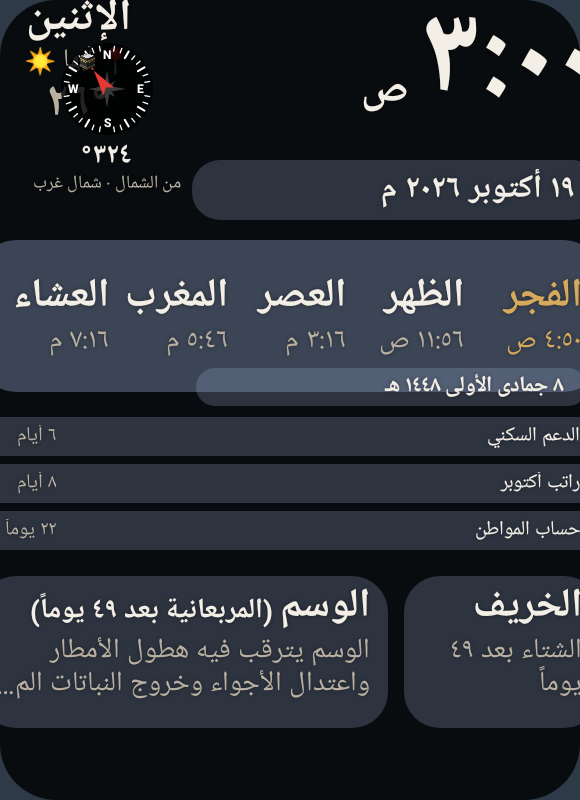
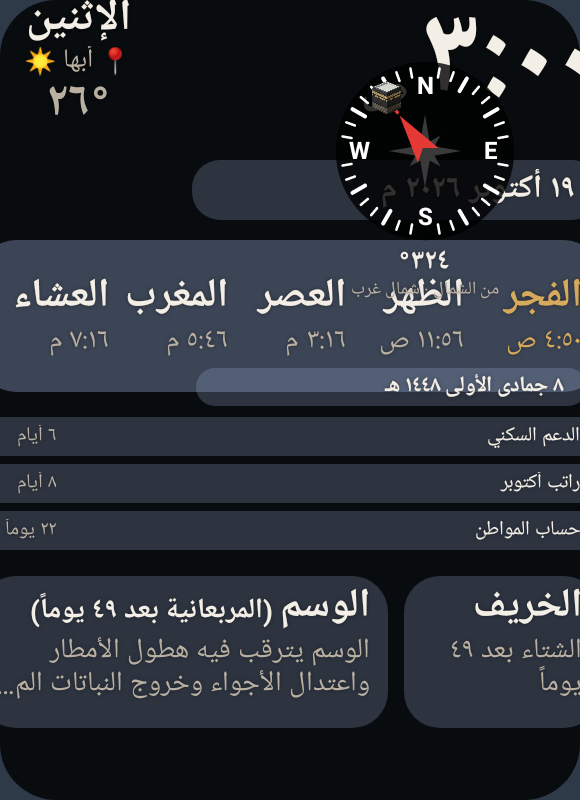
لمحة أندرويد: إصلاح الأذان في بناء الإصدار (R8) وإظهار خطأ الجدولة (DECISIONS ٢٨ب) (#163)
* لمحة أندرويد: إصلاح انطفاء التطبيق بعد التخطيط الحر (Too many nested views)

التخطيط الحر غلّف كل جزء بخانة فتجاوز التداخل ١٠ مستويات addView، فرفض النظام
الودجت ورمى updateAppWidget خطأً أسقط التطبيق مع كل فتح (1.1.0+10).
- الوزن داخل ملف الجزء نفسه: مستوى واحد لكل عمق.
- حد عمق شجرة القص ٦ في Dart وKotlin (الأعمق يُرسم بالصفوف القديمة).
- safeUpdate: رسالة خطأ بدل إسقاط التطبيق إن رفض النظام الودجت.
- LamhaParcelTest يغلّف ويفك الودجت كما يفعل النظام.

Claude-Session: https://claude.ai/code/session_01G1Syvb9ovdsa3bx3n1bnp4

* لمحة: معاينة أكبر في شاشة الودجت، وملء الشاشة، ومقابض في الزوايا الأربع

ملاحظة المالك على آيفون: المعاينة صغيرة جداً، والتكبير والتصغير محدود.
- المعاينة حتى ٥٥٪ من الشاشة، والتلميح والألوان الجاهزة رأس القائمة.
- زر «ملء الشاشة» للمحرر بكامل الشاشة.
- أربعة مقابض للمربع المحدد، كل زاوية تحرك ضلعيها، فوق كل المربعات.

Claude-Session: https://claude.ai/code/session_01G1Syvb9ovdsa3bx3n1bnp4

* تشخيص: تشغيل نسخة الإصدار من لمحة على محاكي أندرويد وطباعة سجل الأعطال

بلاغ المالك: لمحة أندرويد تنطفئ عند الفتح رغم إصلاح التداخل. لا جهاز هنا، فيُبنى release
(R8 وتصغير الموارد) ويُشغَّل على محاكي في CI، ويُطبع سجل الأعطال، ويُجرَّب مسار تحديث الودجت.

Claude-Session: https://claude.ai/code/session_01G1Syvb9ovdsa3bx3n1bnp4

* لمحة أندرويد: شاشة «تشخيص لمحة» وسجل الأعطال، واختبار التحديث فوق النسخة القديمة على المحاكي

بلاغ المالك: لمحة تنهار عند الفتح على جواله (رسالة «حدث خطأ في لمحة»)، وعلى محاكي نظيف تعمل.
لا جهاز هنا، فيُسجَّل السبب على الجهاز نفسه:
[…]

Changed region(s): [[0.5586, 0.0625, 0.9, 0.375], [0.0621, 0.1562, 0.3103, 0.25], [0.0931, 0.0625, 0.2483, 0.1562]]

diff --git a/apps/lamha/lib/src/app/adhan_service.dart b/apps/lamha/lib/src/app/adhan_service.dart
@@ -27,7 +27,13 @@ abstract class AdhanNotifier {
 
   /// تنبيه فوري بالصوت المختار لتجربته.
   Future<void> test(AdhanSound sound);
+
+  /// آخر خطأ في الجدولة أو التجربة (يُعرض في الإعدادات فلا يبقى الفشل صامتاً)، أو null إن نجح آخر ما جُرّب.
+  Future<String?> lastError();
 }
+
+/// مفتاح آخر خطأ في shared_preferences.
+const adhanErrorKey = 'adhanLastError';
 
 /// مفاتيح الصوت في الأصول الأصلية: أندرويد `res/raw/adhan.mp3` و`takbeer.mp3`، وآيفون `Runner/takbeer.wav`
 /// (آبل تقبل aiff وwav وcaf فقط، وبحد ٣٠ ثانية).
@@ -46,6 +52,15 @@ class LocalAdhanNotifier implements AdhanNotifier {
   var _ready = false;
 
   bool get _ios => defaultTargetPlatform == TargetPlatform.iOS;
+
+  Future<void> _fail(String where, Object e) async {
+    debugPrint('adhan $where: $e');
+    final msg = '$where: ${e.toString().split('\n').first}';
+    await _prefs.setString(adhanErrorKey, msg.length > 200 ? msg.substring(0, 200) : msg);
+  }
+
+  @override
+  Future<String?> lastError() async => _prefs.getString(adhanErrorKey);
 
   Future<void> _init() async {
     if (_ready) return;
@@ -114,7 +129,7 @@ class LocalAdhanNotifier implements AdhanNotifier {
       }
       return AdhanPermissionResult(notifications: notifications, exactAlarms: exact);
     } catch (e) {
-      debugPrint('adhan permissions: $e');
+      await _fail('الأذونات', e);
       return const AdhanPermissionResult(notifications: false, exactAlarms: false);
     }
   }
@@ -145,9 +160,10 @@ class LocalAdhanNotifier implements AdhanNotifier {
         );
       }
       await _prefs.setBool(adhanActiveKey, true);
+      await _prefs.remove(adhanErrorKey);
     } catch (e) {
-      // فشل الجدولة لا يوقف التطبيق.
-      debugPrint('adhan schedule: $e');
+      // فشل الجدولة لا يوقف التطبيق، لكن يُحفظ ويُعرض في الإعدادات.
+      await _fail('الجدولة', e);
     }
   }
 
@@ -161,8 +177,9 @@ class LocalAdhanNotifier implements AdhanNotifier {
         body: 'هكذا يصلك التنبيه عند دخول وقت الصلاة',
         notificationDetails: _details(sound),
       );
+      await _prefs.remove(adhanErrorKey);
     } catch (e) {
-      debugPrint('adhan test: $e');
+      await _fail('التجربة', e);
     }
   }
 }
@@ -178,4 +195,7 @@ class NoopAdhanNotifier implements AdhanNotifier {
 
   @override
   Future<void> test(AdhanSound sound) async {}
+
+  @override
+  Future<String?> lastError() async => null;
 }

diff --git a/apps/lamha/lib/src/app/providers.dart b/apps/lamha/lib/src/app/providers.dart
@@ -61,6 +61,9 @@ final notificationPermissionProvider =
     Provider<NotificationPermission>((ref) => AndroidNotificationPermission());
 
 /// جدولة الأذان بالإشعارات المحلية؛ بلا منصة (ويب، سطح مكتب) أو قبل جاهزية التخزين: لا شيء.
+/// آخر خطأ في جدولة الأذان أو تجربته (يُعرض في الإعدادات)؛ يُبطَل بعد كل جدولة أو تجربة.
+final adhanErrorProvider = FutureProvider.autoDispose<String?>((ref) => ref.watch(adhanNotifierProvider).lastError());
+
 final adhanNotifierProvider = Provider<AdhanNotifier>((ref) {
   final prefs = ref.watch(preferencesProvider).value;
   final mobile = !kIsWeb &&
@@ -222,6 +225,7 @@ class SettingsController extends AsyncNotifier<AppState> {
       if (signature == _adhanSignature) return;
       _adhanSignature = signature;
       await ref.read(adhanNotifierProvider).apply(events, a.sound, s.settings.cityName);
+      ref.invalidate(adhanErrorProvider);
     } catch (e) {
       // الأذان لا يوقف التطبيق.
       debugPrint('adhan: $e');
@@ -295,7 +299,10 @@ class SettingsController extends AsyncNotifier<AppState> {
   }
 
   /// تنبيه فوري بالصوت المختار.
-  Future<void> testAdhan() => ref.read(adhanNotifierProvider).test(_s.adhan.sound);
+  Future<void> testAdhan() async {
+    await ref.read(adhanNotifierProvider).test(_s.adhan.sound);
+    ref.invalidate(adhanErrorProvider);
+  }
 
   Future<void> setCity(City c) async {
     await _update(_s.copyWith(

diff --git a/apps/lamha/test/app/customize_screen_test.dart b/apps/lamha/test/app/customize_screen_test.dart
@@ -264,7 +264,7 @@ void main() {
     // أيقونة القبلة بشريط حجم لا بـ«صغير/وسط/عريض».
     expect(find.byKey(const Key('span-qibla')), findsNothing);
     final iconSlider = tester.widget<Slider>(find.byKey(const Key('qibla-icon-size')));
-    expect((iconSlider.min, iconSlider.max, iconSlider.divisions, iconSlider.value), (0.5, 1.6, 22, 1.0));
+    expect((iconSlider.min, iconSlider.max, iconSlider.divisions, iconSlider.value), (0.5, 5.0, 90, 1.0));
     Finder icon() => find.descendant(of: tile('qibla'), matching: find.byKey(const Key('preview-qibla-icon')));
     final before = tester.getSize(icon()).width;
     final sliderBox = find.byKey(const Key('qibla-icon-size'));
@@ -279,7 +279,7 @@ void main() {
     expect(bridge.saved.length, saves, reason: 'لا حفظ أثناء السحب');
     await g.up();
     await tester.pumpAndSettle();
-    expect(tileOf(bridge, 'qibla')['iconScale'], 1.6);
+    expect(tileOf(bridge, 'qibla')['iconScale'], 5.0);
     await tester.tapAt(Offset(c.dx + w / 2 - 2, c.dy));
     await tester.pumpAndSettle();
     expect(tileOf(bridge, 'qibla')['iconScale'], 0.5);

diff --git a/apps/lamha/test/app/android_fixture_test.dart b/apps/lamha/test/app/android_fixture_test.dart
@@ -41,7 +41,7 @@ String fixture(
           ? [
               for (final t in defaultLayout)
                 t.id == WidgetElement.qibla
-                    ? t.copyWith(float: () => const FloatRect(0.62, 0.08, 0.3, 0.2))
+                    ? t.copyWith(float: () => const FloatRect(0.04, 0.1, 0.52, 0.3), iconScale: 5.0)
                     : t.id == WidgetElement.hijri
                         ? t.copyWith(float: () => const FloatRect(0.05, 0.45, 0.6, 0.07))
                         : t,
@@ -85,7 +85,8 @@ void main() {
     expect(file.readAsStringSync(), json);
     final root = jsonDecode(json) as Map;
     final q = (root['layout'] as List).cast<Map>().firstWhere((t) => t['id'] == 'qibla');
-    expect(q['float'], [0.62, 0.08, 0.3, 0.2]);
+    expect(q['float'], [0.04, 0.1, 0.52, 0.3]);
+    expect(q['iconScale'], 5.0, reason: 'أقصى الشريط: الدائرة تملأ مربعها');
     expect(jsonEncode(root['tree']), isNot(contains('qibla')));
     expect(jsonEncode(root['tree']), isNot(contains('hijri')));
   });

diff --git a/apps/lamha/test/app/adhan_screen_test.dart b/apps/lamha/test/app/adhan_screen_test.dart
@@ -49,6 +49,18 @@ void main() {
     expect(bridge.last.containsKey('adhan'), isFalse);
   });
 
+  testWidgets('فشل الجدولة أو التجربة يظهر نصه في الإعدادات ولا يبقى صامتاً', (tester) async {
+    final adhan = FakeAdhanNotifier()..error = 'الجدولة: Missing type parameter';
+    await pumpApp(tester, adhan: adhan);
+    await tapKey(tester, 'adhan-enabled');
+    await tester.ensureVisible(find.byKey(const Key('adhan-error')));
+    expect(find.textContaining('Missing type parameter'), findsOneWidget);
+    // بعد نجاح التجربة (لا خطأ مخزّن) يختفي.
+    adhan.error = null;
+    await tapKey(tester, 'adhan-test');
+    expect(find.byKey(const Key('adhan-error')), findsNothing);
+  });
+
   testWidgets('رفض إذن الإشعارات يبقيه مطفأً برسالة ولا يجدوِل', (tester) async {
     final adhan = FakeAdhanNotifier(
         permission: const AdhanPermissionResult(notifications: false, exactAlarms: false));

diff --git a/apps/lamha/test/engine/widget_layout_test.dart b/apps/lamha/test/engine/widget_layout_test.dart
@@ -293,7 +293,7 @@ void main() {
       expect(tileIconScale(null), 1.0);
       expect(tileIconScale('x'), 1.0);
       expect(tileIconScale(0.1), 0.5);
-      expect(tileIconScale(9), 1.6);
+      expect(tileIconScale(9), 5.0);
       expect(tileIconScale(0.87), closeTo(0.85, 1e-9));
       expect(tileIconScale(1.33), closeTo(1.35, 1e-9));
       expect(const TileLayout(WidgetElement.qibla).iconScale, 1.0);
@@ -325,6 +325,9 @@ void main() {
       // خانة وحدتين بعرض ٢٠٤: الأساس من الوحدة الواحدة (١٠٢) = ٨٦٫٧، ×١٫٦ = ١٣٨٫٧
       expect(qiblaIconSize(204, 2, 1.6), closeTo(138.72, 0.01));
       expect(qiblaIconSize(60, 1, 1.6), 60);
+      // أقصى الشريط (٥٠٠٪): الدائرة تملأ عرض خانتها بلا هوامش (الارتفاع يقصّها لاحقاً في الرسم).
+      expect(qiblaIconSize(204, 2, 5.0), 204);
+      expect(qiblaIconSize(98, 1, 5.0), 98);
       expect(qiblaIconSize(0, 1, 1.0), 36);
     });
   });

diff --git a/apps/lamha/android/app/src/sharedTest/kotlin/sa/lamha/lamha/widget/LamhaScreens.kt b/apps/lamha/android/app/src/sharedTest/kotlin/sa/lamha/lamha/widget/LamhaScreens.kt
@@ -65,6 +65,15 @@ object LamhaScreens {
             val days = getJSONArray("days")
             for (i in 0 until days.length()) days.getJSONObject(i).getJSONArray("deposits").remove(5)
         }.toString()
+        // أربعة إيداعات (شبكة ٢×٢، حالة المالك ١٣ نوفمبر: ظهر عمود واحد فقط في الودجت).
+        val four = JSONObject(six).apply {
+            val days = getJSONArray("days")
+            for (i in 0 until days.length()) {
+                val d = days.getJSONObject(i).getJSONArray("deposits")
+                while (d.length() > 4) d.remove(d.length() - 1)
+            }
+        }.toString()
+        for ((size, w, h) in SIZES) out += Triple("lamha_deposits4_$size.png", four, w to h)
         for ((size, w, h) in SIZES) {
             out += Triple("lamha_deposits6_$size.png", six, w to h)
             out += Triple("lamha_deposits5_$size.png", five, w to h)

diff --git a/apps/lamha/ios/LamhaWidget/LamhaWidget.swift b/apps/lamha/ios/LamhaWidget/LamhaWidget.swift
@@ -465,7 +465,9 @@ struct LamhaWidgetView: View {
                 let st = s.style(["qibla"])
                 // الأيقونة تملأ مربعها (بحجمها المختار ٠٫٥–١٫٦ من ٦٢٪ من أصغر بُعديه) وتحتها الزاوية والاتجاه.
                 let text: CGFloat = st.showTitle ? 30 : 0
-                let side = max(min(g.size.width, g.size.height - text) * CGFloat(0.62 * s.qiblaIconScale), 20)
+                let room = min(g.size.width, g.size.height - text)
+                // الشريط حتى ٥٠٠٪: ما فوق المربع يُقصّ إلى المربع نفسه (الدائرة تصل حوافه بلا هوامش).
+                let side = max(min(room, room * CGFloat(0.62 * s.qiblaIconScale)), 20)
                 qibla(s, width: min(side, g.size.width))
                     .frame(width: g.size.width, height: g.size.height)
             }

diff --git a/apps/lamha/lib/src/engine/widget_layout.dart b/apps/lamha/lib/src/engine/widget_layout.dart
@@ -107,9 +107,10 @@ double tileFontScale(Object? raw) {
 }
 
 /// حجم أيقونة القبلة (طلب المالك ٣٠/١٠/٢٠٢٦، بدل «صغير/وسط/عريض»): شريط من [tileIconMin] إلى
-/// [tileIconMax] بخطوة [tileIconStep]. ١٫٠ = المقاس المرغوب لخانة بعرض وحدة واحدة.
+/// [tileIconMax] بخطوة [tileIconStep]. ١٫٠ = المقاس المرغوب لخانة بعرض وحدة واحدة. السقف ٥٫٠ (طلب المالك ١٣ نوفمبر:
+/// الدائرة تصل إلى حواف مربعها بلا هوامش): ما فوق مقاس المربع يُقصّ إلى المربع نفسه، فأقصى الشريط = الملء.
 const tileIconMin = 0.5;
-const tileIconMax = 1.6;
+const tileIconMax = 5.0;
 const tileIconStep = 0.05;
 
 /// معامل حجم الأيقونة ضمن المدى وعلى خطوة ٠٫٠٥.

diff --git a/apps/lamha/android/app/src/test/kotlin/sa/lamha/lamha/widget/LamhaLogicTest.kt b/apps/lamha/android/app/src/test/kotlin/sa/lamha/lamha/widget/LamhaLogicTest.kt
@@ -189,6 +189,9 @@ class LamhaLogicTest {
         // الحالات نفسها في widget_layout_test.dart (مقاس أيقونة القبلة).
         assertEquals(83.3f, LamhaLogic.qiblaIconSize(98f, 1, 1f), 0.05f)
         assertEquals(41.65f, LamhaLogic.qiblaIconSize(98f, 1, 0.5f), 0.05f)
+        // أقصى الشريط (٥٠٠٪): الدائرة تملأ عرض خانتها (الحالات نفسها في widget_layout_test.dart).
+        assertEquals(204f, LamhaLogic.qiblaIconSize(204f, 2, 5f), 1e-4f)
+        assertEquals(98f, LamhaLogic.qiblaIconSize(98f, 1, 5f), 1e-4f)
         assertEquals(138.72f, LamhaLogic.qiblaIconSize(204f, 2, 1.6f), 0.05f)
         assertEquals(60f, LamhaLogic.qiblaIconSize(60f, 1, 1.6f), 1e-4f)
         assertEquals(36f, LamhaLogic.qiblaIconSize(0f, 1, 1f), 1e-4f)

diff --git a/apps/lamha/lib/src/app/settings_screen.dart b/apps/lamha/lib/src/app/settings_screen.dart
@@ -594,6 +594,16 @@ class _AdhanSection extends ConsumerWidget {
             key: const Key('adhan-note'),
             style: textTheme.bodySmall,
           ),
+          // فشل الجدولة أو التجربة يظهر هنا بنصه فلا يبقى الأذان «لا يعمل» دون سبب.
+          if (ref.watch(adhanErrorProvider).value case final err? when err.isNotEmpty)
+            Padding(
+              padding: const EdgeInsets.only(top: 8),
+              child: Text(
+                '${l.adhanErrorLabel}: $err',
+                key: const Key('adhan-error'),
+                style: textTheme.bodySmall?.copyWith(color: Theme.of(context).colorScheme.error),
+              ),
+            ),
         ],
       ],
     );

diff --git a/apps/lamha/android/app/src/main/kotlin/sa/lamha/lamha/widget/LamhaSchedule.kt b/apps/lamha/android/app/src/main/kotlin/sa/lamha/lamha/widget/LamhaSchedule.kt
@@ -158,7 +158,7 @@ object LamhaSchedule {
                 showSub = t.optBoolean("showSub", true),
                 primaryColor = if (t.isNull("primaryColor")) null else t.getLong("primaryColor").toInt(),
                 secondaryColor = if (t.isNull("secondaryColor")) null else t.getLong("secondaryColor").toInt(),
-                iconScale = t.optDouble("iconScale", 1.0).toFloat().coerceIn(0.5f, 1.6f),
+                iconScale = t.optDouble("iconScale", 1.0).toFloat().coerceIn(0.5f, 5f),
                 rect = t.optJSONArray("rect")?.let { r -> (0 until r.length()).map { r.getInt(it) } },
                 float = LamhaLogic.floatOf(t.optJSONArray("float")),
             )
